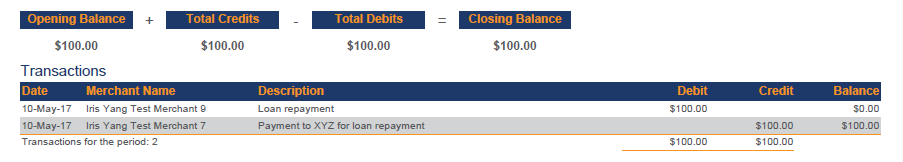
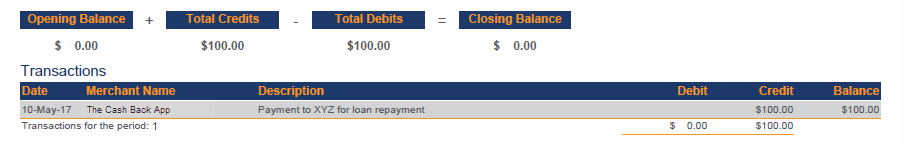
added new images and text changes

diff --git a/source/index.html.md b/source/index.html.md
@@ -82,9 +82,9 @@ mAccounts receive a settlement email at the end of the settlement run, explainin
 The above ‘Credit Date’ would have the actual date the settlement would occur if T+n are > 0.
 
 ### Sample PDF Settlement Statement
-The Statement From Date and the To date in the statement below (inside the green box) are from 4pm the previous settlement date (1 December 2016 – A Friday) to 4pm the current settlement date (5th December 2016 – A Monday). This is why it’s called a Settlement Statement. It’s only showing transactions that were settled on the 5th December 2016 (a Monday) which included any transactions over the weekend.
+The Statement From Date and the To date in the statement below (inside the green box) are from 4pm the previous settlement date (5th May 2017 – A Friday) to 4pm the current settlement date (8th May 2017 – A Monday). This is why it’s called a Settlement Statement. It’s only showing transactions that were settled on the 8th May 2017 (a Monday) which included any transactions over the weekend.
 
-When looking at any of the Platform statements, think of the Platform as a bank. In the example below, the Settlement transaction (row 3) shows there is a Debit of $50.00 for the settlement. This is a Debit FROM your Platform account and will therefore be a Credit INTO your physical bank account.
+When looking at any of the Platform statements, think of the Platform as a bank. In the example below, the Settlement transaction (row 2) shows there is a Debit of $85.00 for the settlement. This is a Debit FROM your Platform account and will therefore be a Credit INTO your physical bank account.
 
 
 <img src = "images\Settlement\SettlementSamplePDFStatement.png">
